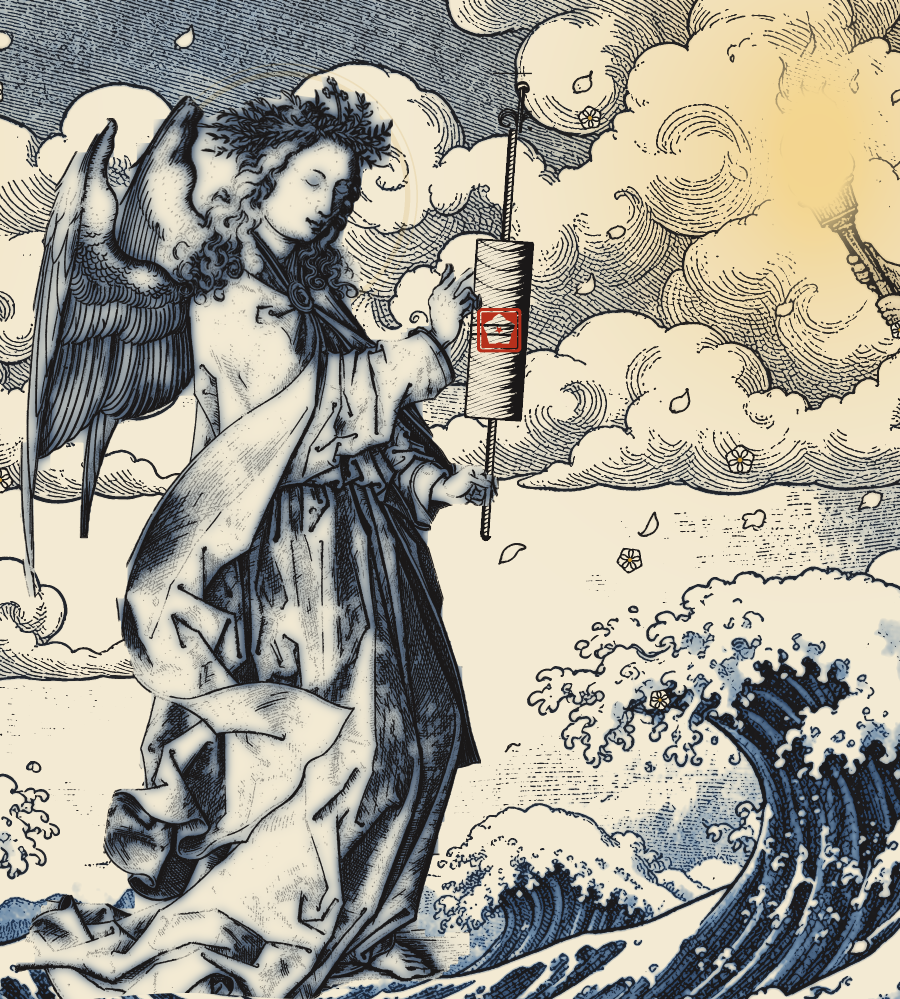
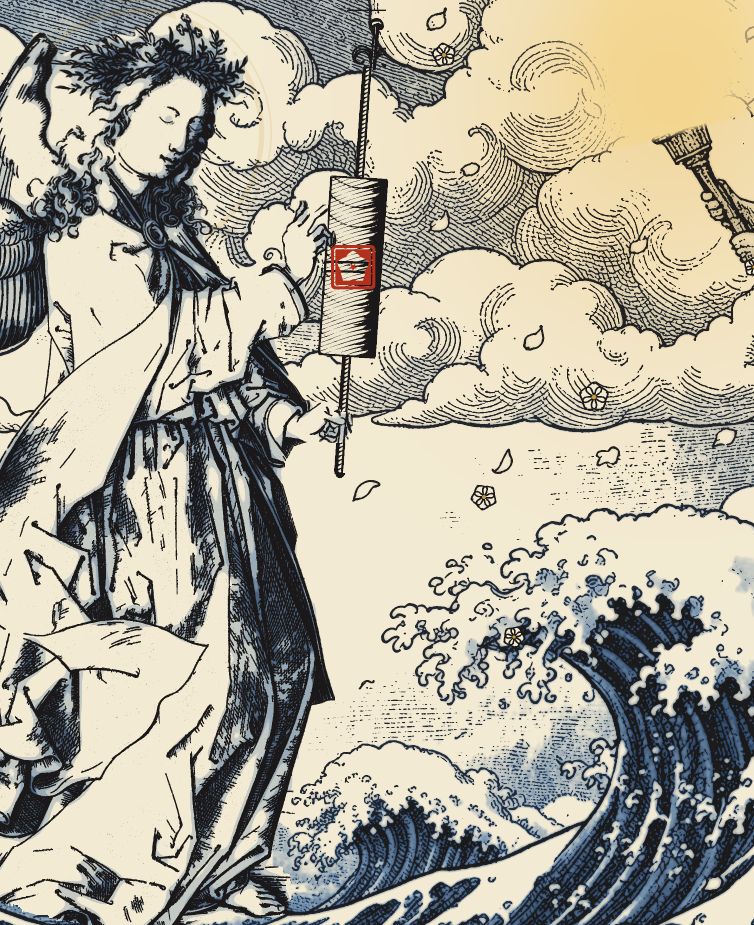
the saver: its left spots clear of her quote's plaque; the wake's review opens onto the shut gate; a moved angel stops the build; rebuilt on lane-ink's art of 23:36 (lane-saver, wip)

diff --git a/tools/build-saver.py b/tools/build-saver.py
@@ -21,7 +21,7 @@ SIZE = (1920, 1080)
 SLEEPER = {"dark": (440, 0, 1480, 1080), "light": (700, 0, 1600, 1010)}   # what of the sleeper's frame goes over the lock: the figure, its gate
 FIGURE = {"dark": (960, 565, 560), "light": (1002, 420, 620)}   # where the sleeper breathes: its middle (the wake starts there), the reach of its light
 SPOTS = {"dark": ((1330, 720), (560, 400), (1360, 400), (590, 720)),    # where the seal lands, in turn, every move across the frame: its thirds, clear of the figure
-         "light": ((1370, 720), (560, 400), (1370, 400), (560, 720))}
+         "light": ((1370, 720), (510, 520), (1370, 400), (570, 750))}   # (the left ones clear of her quote's plaque, x 558–615 to y 330)
 FLAME_MS = 125                             # a flame's frame, 8 a second as on the lock
 SEAL = (168, 228)                          # the time's seal, in pixels: two rows of two digits
 DIGIT = (68, 92)                           # a digit's cell in it
@@ -158,6 +158,7 @@ ANGEL_EYES = (
     ([(1027, 179), (1033, 178), (1039, 179), (1039.5, 185), (1034, 186.5), (1029, 185)], ((1027.2, 180), (1032.8, 184.2), (1039, 182.2))),
 )
 BOW = (977, 240, 8.5, (1002, 186), 78, 158)   # her head bowed: the neck it turns on, by how much, where wholly turned, the reach of that, where it fades out
+ANGEL_HEAD = (985, 196)                    # tools/build-ink.py's HEAD these points were read against
 
 
 def angel_eyes_shut(ink):
@@ -209,6 +210,8 @@ def bowed(a):
 def asleep_light():
     """the lock's own frame with the scroll rolled and sealed: her eyes shut, her head bowed, the halo down to a trace, no rays"""
     bi = ink_tool()
+    if tuple(bi.HEAD) != ANGEL_HEAD:
+        raise SystemExit(f"the angel moved ({bi.HEAD}, not {ANGEL_HEAD}): read ANGEL_EYES and BOW off her new place")
     ring = bi.halo_ring
     bi.halo_ring = lambda: ring() * .16                    # (all her layers as the lock's but this)
     L = dict(bi.light_layers())
